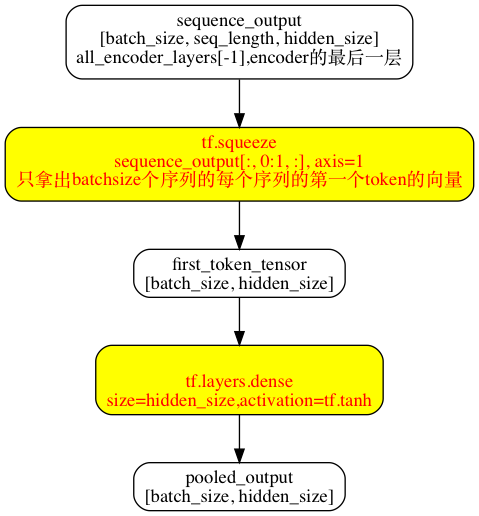
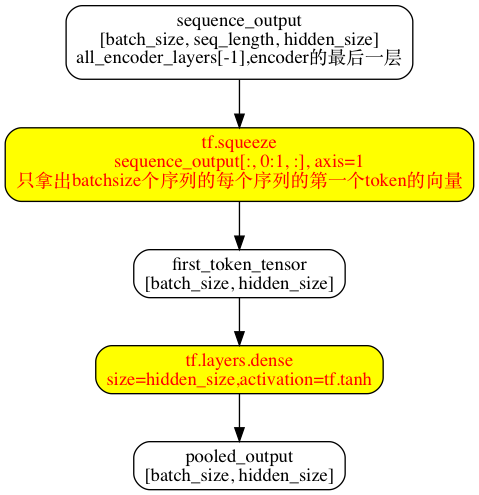
xx

diff --git a/gen_dot.py b/gen_dot.py
@@ -220,7 +220,7 @@ def gen_bert_flow_pool():
     dot.node('pooled_output', u'pooled_output\n[batch_size, hidden_size]', shape="box", style="rounded")
  
     dot.node('tf_squeeze', u'tf.squeeze\nsequence_output[:, 0:1, :], axis=1\n只拿出batchsize个序列的每个序列的第一个token的向量', shape="box", style="rounded,filled", fillcolor="yellow", fontcolor="red")
-    dot.node('tf_dense', u'\ntf.layers.dense\nsize=hidden_size,activation=tf.tanh', shape="box", style="rounded,filled", fillcolor="yellow", fontcolor="red")
+    dot.node('tf_dense', u'tf.layers.dense\nsize=hidden_size,activation=tf.tanh', shape="box", style="rounded,filled", fillcolor="yellow", fontcolor="red")
 
     dot.edge('sequence_output', 'tf_squeeze', )
     dot.edge('tf_squeeze', 'first_token_tensor', )
